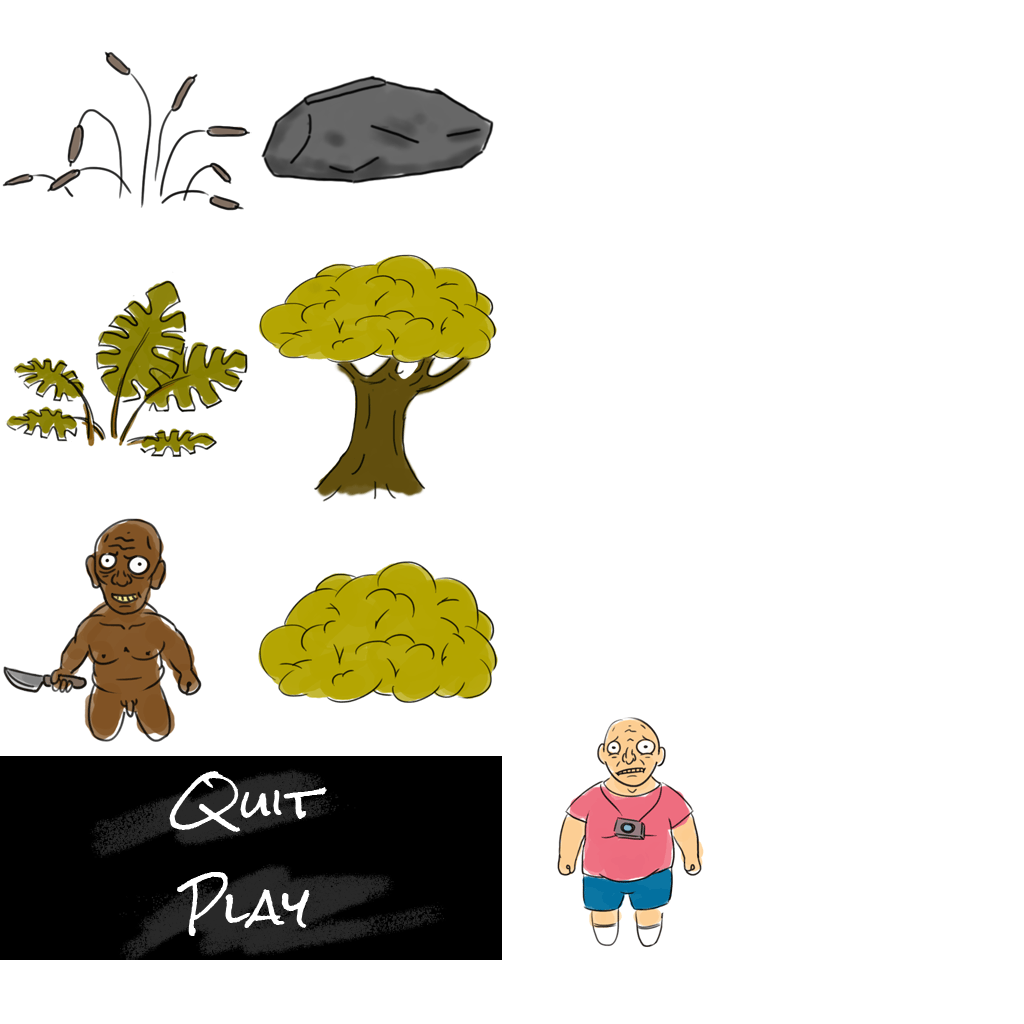
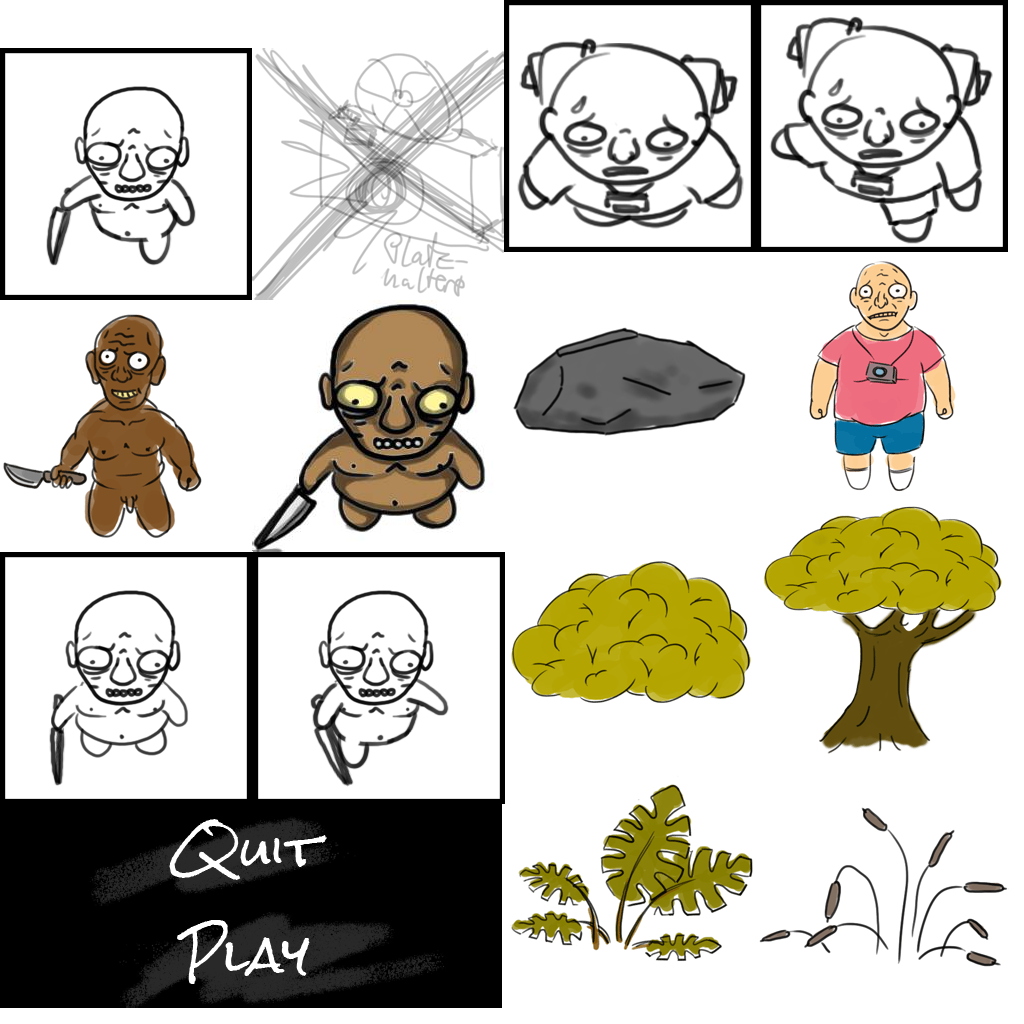
Gfx Texture

diff --git a/core/src/net/mueller_martin/turirun/gameobjects/CheckpointGameObject.java b/core/src/net/mueller_martin/turirun/gameobjects/CheckpointGameObject.java
@@ -1,13 +1,11 @@
 package net.mueller_martin.turirun.gameobjects;
 
-import com.badlogic.gdx.graphics.Color;
-import com.badlogic.gdx.graphics.g2d.SpriteBatch;
 import com.badlogic.gdx.graphics.glutils.ShapeRenderer;
 import com.badlogic.gdx.math.Rectangle;
 import com.badlogic.gdx.math.Vector2;
-import net.mueller_martin.turirun.CameraHelper;
-import net.mueller_martin.turirun.WorldController;
 import net.mueller_martin.turirun.utils.CollusionDirections;
+
+import net.mueller_martin.turirun.AssetOrganizer;
 
 /**
  * Created by Dorothea on 07.11.2015.
@@ -17,72 +15,33 @@ public class CheckpointGameObject extends GameObject {
 
     public float timer = 0.0f;
 
-    public boolean checked = false;
-
-
     public static float MAX_TIMER = 5.0f;
 
-    private ShapeRenderer shapeRenderer;
-
-    public CheckpointGameObject (float x, float y, float width, float height)
-    {
-        super(x, y, width, height);
-
-        this.shapeRenderer = new ShapeRenderer();
+    public CheckpointGameObject (float x, float y, float width, float height) {
+        super(x, y, AssetOrganizer.instance.stone.stone);
     }
 
     @Override
     public void isCollusion(GameObject otherObject , CollusionDirections.CollusionDirectionsTypes type)
     {
+        System.out.println("I HIT A CHECKPOINT");
         this.active = true;
     }
 
-    public void update(float deltaTime)
-    {
-        if(!checked)
-        {
-            // Steht ein Spieler auf dem Feld
-            if (this.active)
-                this.timer += deltaTime;
-            else
-                this.timer = 0.0f;
+    public void update(float deltaTime) {
+    	// Steht ein Spieler auf dem Feld
+    	if (this.active)
+	    	this.timer+= deltaTime;
+	    else
+	    	this.timer = 0.0f;
 
-            if (this.timer > MAX_TIMER) {
-                this.timer = 0.0f;
-                checked = true;
-                System.out.println("TIMER BAAAAAAM");
-            }
 
-            // Reset für nächsten Test
-            this.active = false;
-        }
-    }
+    	if (this.timer > MAX_TIMER) {
+    		this.timer = 0.0f;
+    		System.out.println("TIMER BAAAAAAM");
+    	}
 
-    public void draw(SpriteBatch batch)
-    {
-        //super.draw(new SpriteBatch());
-        batch.begin();
-
-        shapeRenderer.begin(ShapeRenderer.ShapeType.Filled);
-        shapeRenderer.setProjectionMatrix(CameraHelper.instance.camera.combined);
-        shapeRenderer.setColor(Color.BLUE);
-        shapeRenderer.rect(this.currentPosition.x, this.currentPosition.y, this.size.x, this.size.y);
-        shapeRenderer.end();
-
-        batch.end();
-
-        if(this.active && !checked)
-        {
-            batch.begin();
-
-            shapeRenderer.begin(ShapeRenderer.ShapeType.Filled);
-            shapeRenderer.setProjectionMatrix(CameraHelper.instance.camera.combined);
-            shapeRenderer.setColor(0, 250, 0, 0.5f);
-            shapeRenderer.circle(this.currentPosition.x + this.size.x/2, this.currentPosition.y + this.size.y/2, this.size.x * ((MAX_TIMER - this.timer) / MAX_TIMER));
-            shapeRenderer.end();
-
-            batch.end();
-
-        }
+    	// Reset für nächsten Test
+    	this.active = false;
     }
 }

diff --git a/core/src/net/mueller_martin/turirun/gameobjects/GameObject.java b/core/src/net/mueller_martin/turirun/gameobjects/GameObject.java
@@ -1,11 +1,14 @@
 package net.mueller_martin.turirun.gameobjects;
 
+import com.badlogic.gdx.graphics.Texture;
+import com.badlogic.gdx.graphics.g2d.TextureRegion;
 import com.badlogic.gdx.math.Vector2;
 import com.badlogic.gdx.graphics.glutils.ShapeRenderer;
 import com.badlogic.gdx.graphics.glutils.ShapeRenderer.ShapeType;
 import com.badlogic.gdx.graphics.g2d.SpriteBatch;
 import com.badlogic.gdx.graphics.Color;
 
+import net.mueller_martin.turirun.AssetOrganizer;
 import net.mueller_martin.turirun.CameraHelper;
 import net.mueller_martin.turirun.utils.CollusionDirections;
 import net.mueller_martin.turirun.utils.TheTrueRectangle;
@@ -19,16 +22,20 @@ public class GameObject {
 	public Vector2 size;
 	public TheTrueRectangle bounds;
 	public int id = 0;
+	public TextureRegion texture;
+	public SpriteBatch batch;
+
 
 	private ShapeRenderer shapeRenderer;
 
-	public GameObject (float x, float y, float width, float height) {
+	public GameObject (float x, float y, TextureRegion t) {
+		this.texture = t;
 		this.currentPosition = new Vector2(x, y);
 		this.lastPosition = new Vector2(x,y);
-		this.size = new Vector2(width, height);
-		this.bounds = new TheTrueRectangle(x, y, width, height);
-
-		this.shapeRenderer = new ShapeRenderer();
+		this.size = new Vector2(texture.getRegionWidth(), texture.getRegionHeight());
+		this.bounds = new TheTrueRectangle(x, y,size.x ,size.y );
+		batch = new SpriteBatch();
+		//this.shapeRenderer = new ShapeRenderer()
 
 	}
 
@@ -38,14 +45,17 @@ public class GameObject {
 	}
 
 	public void draw(SpriteBatch batch) {
+		batch.setProjectionMatrix(CameraHelper.instance.camera.combined);
 		batch.begin();
-
+		batch.draw(texture, currentPosition.x, currentPosition.y, bounds.width,bounds.height);
+		batch.end();
+		/*
 		shapeRenderer.begin(ShapeType.Filled);
 		shapeRenderer.setProjectionMatrix(CameraHelper.instance.camera.combined);
 		shapeRenderer.setColor(Color.BLUE);
 		shapeRenderer.rect(this.currentPosition.x, this.currentPosition.y, this.size.x, this.size.y);
 		shapeRenderer.end();
-		batch.end();
+		 */
 	}
 
 	public void isCollusion(GameObject otherObject, CollusionDirections.CollusionDirectionsTypes type) {

diff --git a/core/src/net/mueller_martin/turirun/AssetOrganizer.java b/core/src/net/mueller_martin/turirun/AssetOrganizer.java
@@ -7,6 +7,7 @@ import com.badlogic.gdx.assets.AssetErrorListener;
 import com.badlogic.gdx.assets.AssetManager;
 import com.badlogic.gdx.audio.Sound;
 import com.badlogic.gdx.graphics.Texture;
+import com.badlogic.gdx.graphics.g2d.Animation;
 import com.badlogic.gdx.graphics.g2d.TextureAtlas;
 import com.badlogic.gdx.graphics.g2d.TextureRegion;
 import com.badlogic.gdx.utils.Disposable;
@@ -22,7 +23,7 @@ public class AssetOrganizer implements Disposable, AssetErrorListener
     public static final AssetOrganizer instance = new AssetOrganizer();
     private AssetOrganizer assetOrganizer;
     Audio audio;
-
+    public float stateTime;
 
     // Menu
     public BtnPlay btnPlay;
@@ -36,6 +37,12 @@ public class AssetOrganizer implements Disposable, AssetErrorListener
     public Audio_Running1 audio_running1;
     public Audio_Walking1 audio_walking1;
     public Audio_Walking2 audio_walking2;
+
+    // Gfx
+    public Stone stone;
+    public Player player;
+
+    public Animation touriRunDown;
 
 
     public AssetOrganizer()
@@ -81,6 +88,11 @@ public class AssetOrganizer implements Disposable, AssetErrorListener
         audio_running1 = new Audio_Running1();
         audio_walking1 = new Audio_Walking1();
         audio_walking2 = new Audio_Walking2();
+        // Gfx
+        stone = new Stone(atlas);
+        player = new Player(atlas);
+
+        //gamegfx
     }
 
         public class MenuBtnBg
@@ -108,6 +120,24 @@ public class AssetOrganizer implements Disposable, AssetErrorListener
         {
             btnPlay = atlas.findRegion("btnPlay");
         }
+    }
+
+
+
+
+    // GFX
+    public class Stone
+    {
+        public final TextureRegion stone;
+        public Stone(TextureAtlas atlas)
+        {
+            stone = atlas.findRegion("tile_5botanik");
+        }
+    }
+    public class Player
+    {
+        public final TextureAtlas.AtlasRegion player;
+        public Player(TextureAtlas atlas){ player = atlas.findRegion("tourist");}
     }
 
     // AUDIO

diff --git a/core/src/net/mueller_martin/turirun/gameobjects/CharacterObject.java b/core/src/net/mueller_martin/turirun/gameobjects/CharacterObject.java
@@ -1,6 +1,9 @@
 package net.mueller_martin.turirun.gameobjects;
 
-import net.mueller_martin.turirun.gameobjects.GameObject;
+import com.badlogic.gdx.graphics.g2d.SpriteBatch;
+
+import net.mueller_martin.turirun.AssetOrganizer;
+import net.mueller_martin.turirun.CameraHelper;
 import net.mueller_martin.turirun.utils.CollusionDirections;
 
 /**
@@ -10,7 +13,7 @@ public class CharacterObject extends GameObject {
 	public String username = "Gast";
 
 	public CharacterObject (float x, float y, float width, float height) {
-		super(x,y,width,height);
+		super(x,y,AssetOrganizer.instance.player.player);
 	}
 
 	@Override
@@ -36,5 +39,20 @@ public class CharacterObject extends GameObject {
 		{
 			//TODO Wenn verschedene Spielertpen (Kannibale und Touri) töte Touri
 		}
+	}
+
+
+	public void draw(SpriteBatch batch) {
+		batch.setProjectionMatrix(CameraHelper.instance.camera.combined);
+		batch.begin();
+		batch.draw(texture, currentPosition.x, currentPosition.y, bounds.width,bounds.height);
+		batch.end();
+		/*
+		shapeRenderer.begin(ShapeType.Filled);
+		shapeRenderer.setProjectionMatrix(CameraHelper.instance.camera.combined);
+		shapeRenderer.setColor(Color.BLUE);
+		shapeRenderer.rect(this.currentPosition.x, this.currentPosition.y, this.size.x, this.size.y);
+		shapeRenderer.end();
+		 */
 	}
 }

diff --git a/core/src/net/mueller_martin/turirun/gameobjects/WallGameObject.java b/core/src/net/mueller_martin/turirun/gameobjects/WallGameObject.java
@@ -1,6 +1,7 @@
 package net.mueller_martin.turirun.gameobjects;
 
 
+import net.mueller_martin.turirun.AssetOrganizer;
 import net.mueller_martin.turirun.utils.CollusionDirections;
 
 /**
@@ -9,7 +10,7 @@ import net.mueller_martin.turirun.utils.CollusionDirections;
 public class WallGameObject extends GameObject{
 
     public WallGameObject (float x, float y, float width, float height) {
-        super(x, y, width, height);
+        super(x, y, AssetOrganizer.instance.player.player);
     }
 
     public void update(float deltaTime)

diff --git a/core/src/net/mueller_martin/turirun/CharacterController.java b/core/src/net/mueller_martin/turirun/CharacterController.java
@@ -10,7 +10,9 @@ public class CharacterController {
 	public GameObject character;
 	private int speed = 7;
 
-	public CharacterController() {
+	public CharacterController()
+	{
+
 	}
 
 	public void update(float deltaTime) {
@@ -19,6 +21,7 @@ public class CharacterController {
 			System.out.println("Character: null");
 			return;
 		}
+
 
 		this.character.lastPosition = new Vector2(this.character.currentPosition.x, this.character.currentPosition.y);
 		if (Gdx.input.isKeyPressed(Input.Keys.LEFT))
